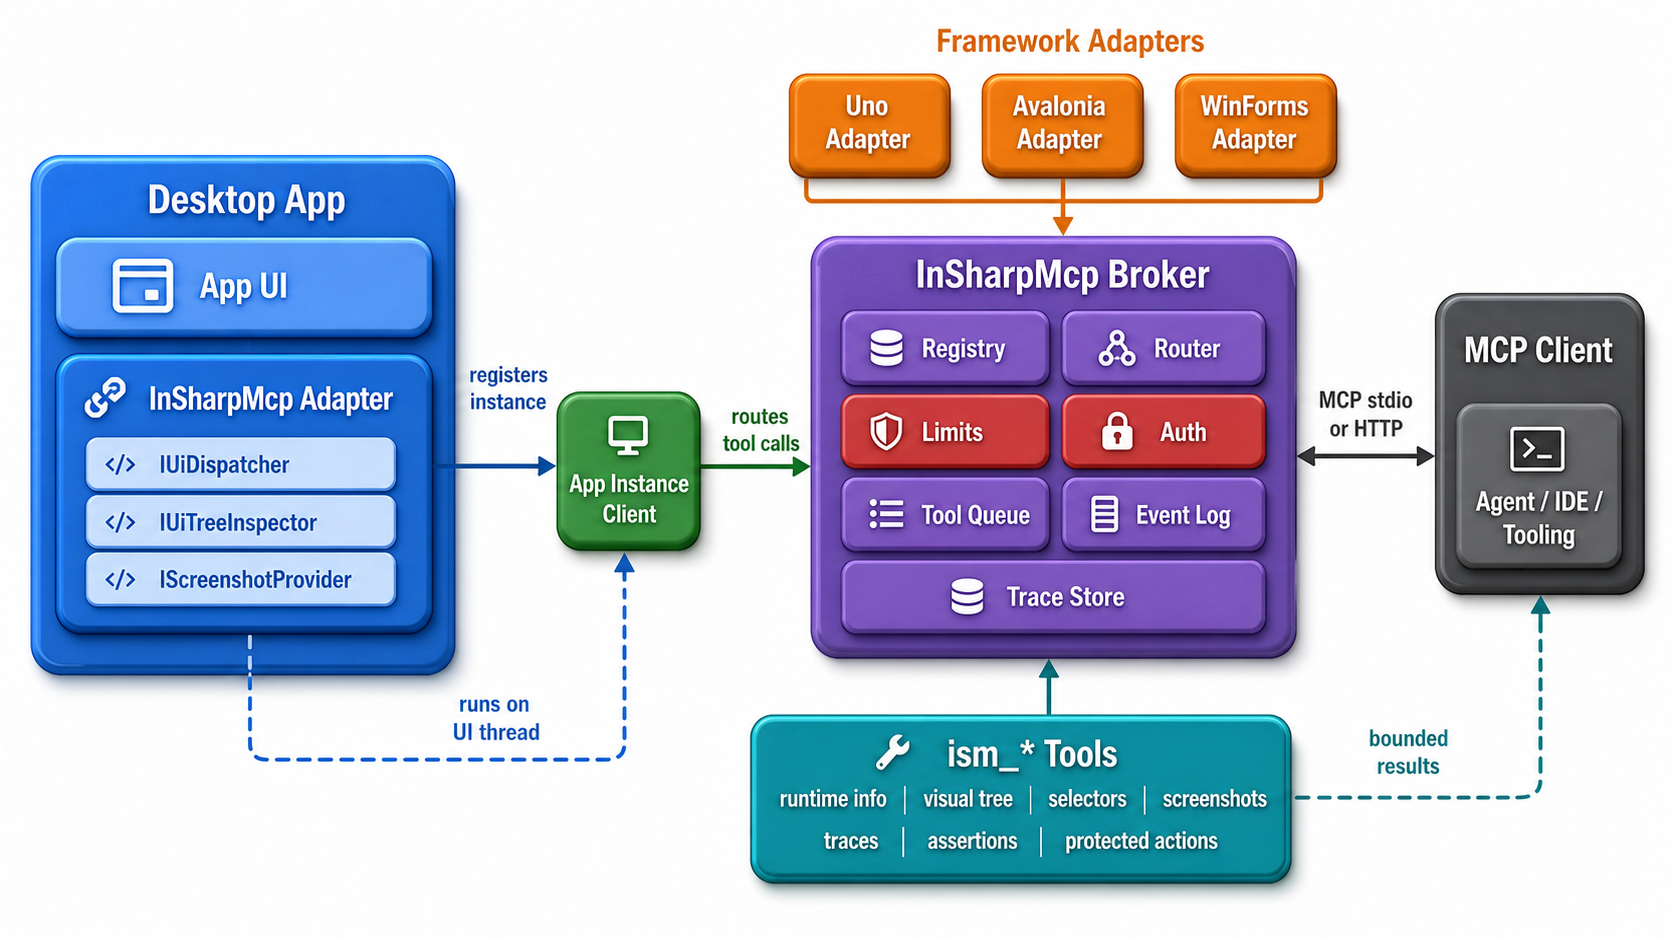
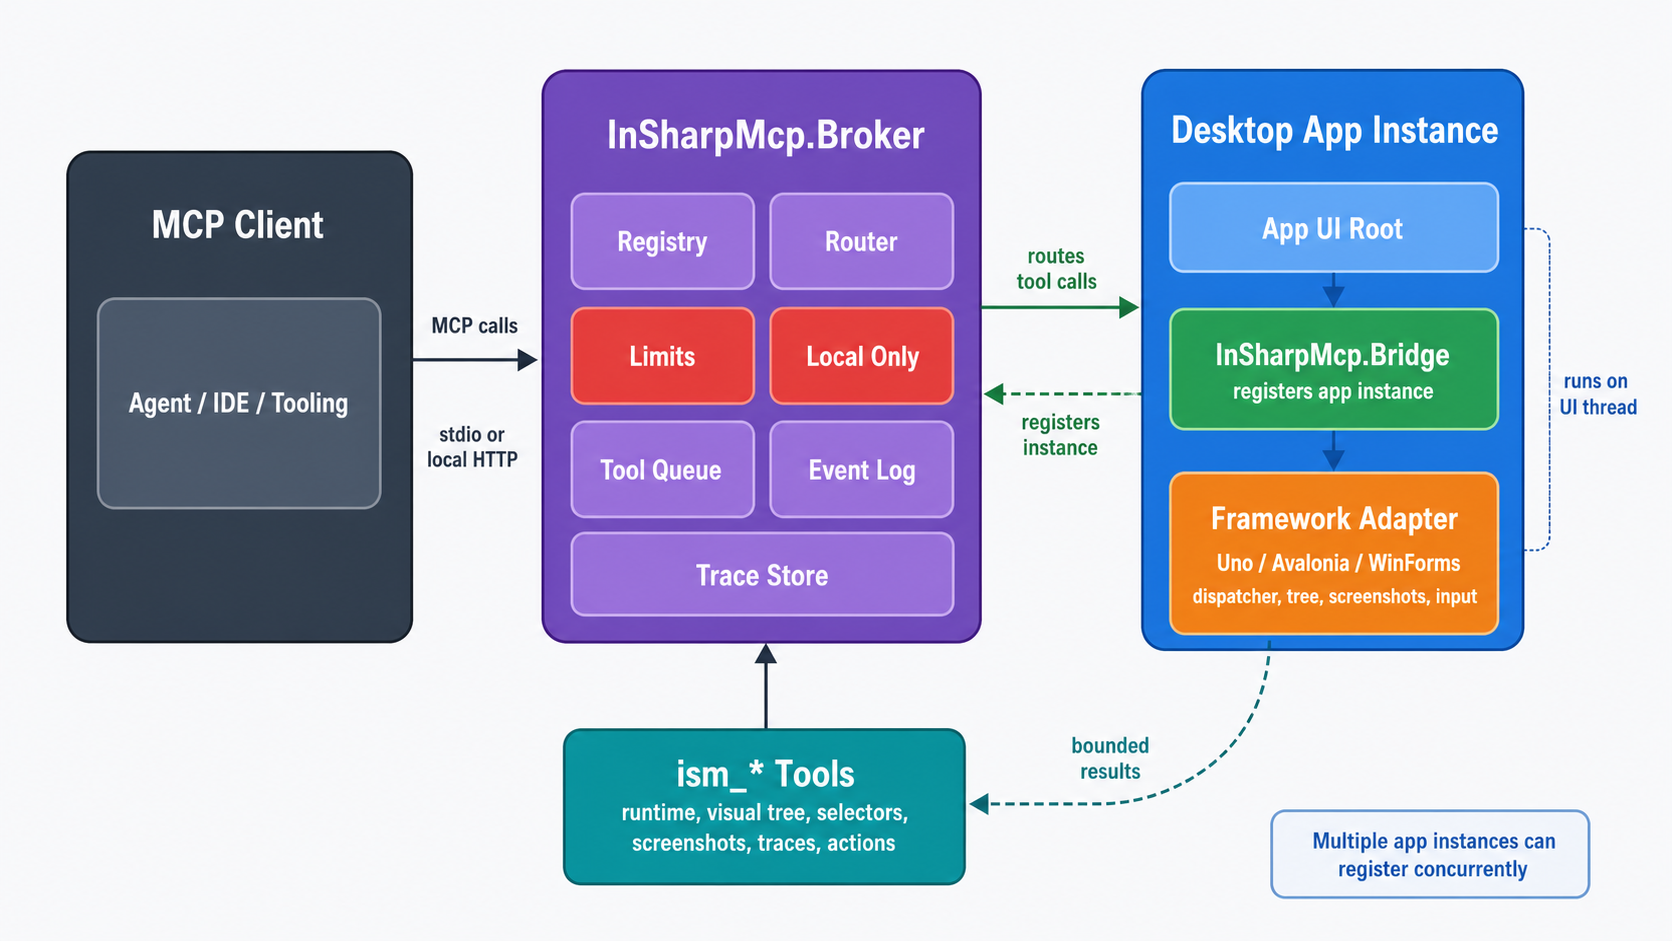
Add release packaging and NuGet usage docs

diff --git a/README.md b/README.md
@@ -11,18 +11,20 @@
 
 <table align="center">
   <tr>
-    <td align="center"><strong>Core</strong><br><code>InSharpMcp</code> broker</td>
+    <td align="center"><strong>Core</strong><br>Broker and Bridge</td>
     <td align="center"><strong>Adapters</strong><br>Uno, Avalonia, WinForms</td>
     <td align="center"><strong>Transports</strong><br>stdio and HTTP</td>
     <td align="center"><strong>Tests</strong><br>xUnit projects</td>
   </tr>
 </table>
 
-InSharpMcp is a framework-independent MCP automation layer for .NET desktop applications. It gives an MCP client a bounded, structured way to inspect a running app, query UI elements, capture screenshots, read safe metadata, collect recent events, start traces, run simple assertions, and invoke carefully gated interaction tools.
+InSharpMcp is a framework-independent MCP automation layer for .NET desktop applications. It gives an MCP client a bounded, structured way to inspect running app instances, query UI elements, capture screenshots, read safe metadata, collect recent events, start traces, run simple assertions, and invoke carefully gated interaction tools.
 
-The core package does not reference Uno, Avalonia, WinForms, WPF, WinUI, or any other UI framework. UI frameworks plug in through small adapter packages that implement shared contracts from `InSharpMcp.Contracts`.
+The base NuGet package, `InSharpMcp`, is independent of any Uno, Avalonia, WinForms, WPF, WinUI, or other UI framework. UI frameworks plug in through separate adapter packages.
 
-This repository currently contains the core broker, shared contracts, Uno, Avalonia, and WinForms adapters, adapter tests, and demo apps for the three planned environments.
+The **Broker** is the actual process that will be integrated as the Mcp server in e.g. IDE's like Cursor or VS Code etc. It is not limited to a single app or a single active call. Running apps connect through `InSharpMcp.Bridge`, register as separate app instances, and the broker routes concurrent MCP calls to the selected instance.
+
+This repository currently contains the broker executable, reusable core broker library, app-side Bridge, shared contracts, Uno, Avalonia, and WinForms adapters, adapter tests, and demo apps for the three platform environments.
 
 ## Table of Contents
 
@@ -31,11 +33,13 @@ This repository currently contains the core broker, shared contracts, Uno, Avalo
 - [Requirements](#requirements)
 - [Build and Test](#build-and-test)
 - [How InSharpMcp Works](#how-insharpmcp-works)
+- [Install MCP in IDE](#install-mcp-in-ide)
+- [Using NuGet Packages](#using-nuget-packages)
 - [Starting the Broker](#starting-the-broker)
-- [Registering an App Instance](#registering-an-app-instance)
+- [Adding MCP to Your App](#adding-mcp-to-your-app)
 - [Adapter Capabilities](#adapter-capabilities)
 - [Interaction Behavior](#interaction-behavior)
-- [MCP Client Configuration](#mcp-client-configuration)
+- [Client Limit Configuration](#client-limit-configuration)
 - [Limits and Safety](#limits-and-safety)
 - [Security Model](#security-model)
 - [Selecting a Target App](#selecting-a-target-app)
@@ -48,7 +52,7 @@ This repository currently contains the core broker, shared contracts, Uno, Avalo
 
 ## Current Status
 
-The project is source-ready but not published as NuGet packages from this repository. Use project references while developing against it.
+Release builds create one base NuGet package named `InSharpMcp`, separate framework adapter packages, and a Windows installer for the broker executable.
 
 The verified implementation includes the callable `InSharpMcp.Broker` executable, the reusable `InSharpMcp.Core` broker library, the app-side `InSharpMcp.Bridge`, `InSharpMcp.Contracts`, `InSharpMcp.Adapters.Uno`, `InSharpMcp.Adapters.Avalonia`, and `InSharpMcp.Adapters.WinForms`. The repository currently pins Uno Platform through `Uno.Sdk/6.5.33`. It pins Avalonia to `11.3.9`; the Avalonia adapter has also been compile-checked against Avalonia `12.0.3`, so the current implementation does not require separate v11 and v12 adapter source versions.
 
@@ -106,20 +110,130 @@ The demos are intentionally small and stable. They expose menus, buttons, inputs
 
 ## How InSharpMcp Works
 
-An MCP client talks to an InSharpMcp broker. The broker owns the MCP tool surface and routes each tool call to a selected app instance. The app instance is represented by an `AppInstanceDescriptor` and an active `IAppInstanceClient`.
+An MCP client talks to `InSharpMcp.Broker`. The broker owns the MCP tool surface, app registry, target selection, limit clamping, event logging, and local routing. It stays UI-framework-neutral.
 
-The core broker remains UI-framework-neutral. It knows how to select an app instance, enforce limits, authorize protected tools, serialize UI work through a bounded queue, and record tool events. The adapter knows how to run work on the UI thread and inspect the framework-specific UI tree.
+A running app does not expose MCP directly. It references `InSharpMcp.Bridge` plus exactly one framework adapter package. The Bridge registers an `AppInstanceDescriptor` with the broker over a local named pipe and carries broker requests back to the live app process.
+
+Adapters provide the framework-specific implementation: UI-thread dispatch, visual tree inspection, metadata, DataContext inspection, screenshots, accessibility data, input, default actions, and close behavior where supported.
 
 When exactly one compatible app instance is registered, tools can run without an explicit target. When more than one instance matches, InSharpMcp returns `ambiguous_target` instead of guessing. When a selected instance has no active client connection, it returns `stale_instance`.
 
-The broker process runs the MCP protocol interface. Apps do not expose MCP directly. A running app references `InSharpMcp.Bridge` plus its framework adapter, and the Bridge registers that live app instance with the broker over a local named pipe. The broker then routes MCP tool calls to that app through the Bridge.
+## Install MCP in IDE
+
+IDE MCP clients should launch `InSharpMcp.Broker` over stdio. The app under test must reference `InSharpMcp.Bridge` and be running so it can register itself with the broker.
+
+For live usage, point the IDE directly at `InSharpMcp.Broker.exe`. Use `<path>` for the folder that contains the broker executable, such as a local build output, release unpack folder, or installed tool location.
+
+For Cursor, add an entry like this to `mcp.json`:
+
+```json
+{
+  "mcpServers": {
+    "insharp-mcp": {
+      "command": "<path>/InSharpMcp.Broker.exe",
+      "args": [
+        "--transport",
+        "stdio"
+      ],
+      "env": {
+        "ISM_MAX_DEPTH": "20",
+        "ISM_MAX_NODES": "500",
+        "ISM_MAX_TEXT_CHARACTERS": "64000"
+      }
+    }
+  }
+}
+```
+
+For Codex, add the same broker command to `%USERPROFILE%\.codex\config.toml`:
+
+```toml
+[mcp_servers.InSharpMcp]
+command = "<path>/InSharpMcp.Broker.exe"
+args = [
+  "--transport",
+  "stdio",
+]
+env = { ISM_MAX_DEPTH = "20", ISM_MAX_NODES = "500", ISM_MAX_TEXT_CHARACTERS = "64000" }
+```
+
+Developers working from a source checkout can use `dotnet run` instead of a built executable:
+
+```json
+{
+  "mcpServers": {
+    "insharp-mcp": {
+      "command": "dotnet",
+      "args": [
+        "run",
+        "--project",
+        "<repo>/mcp/server/InSharpMcp.Broker/InSharpMcp.Broker.csproj",
+        "--",
+        "--transport",
+        "stdio"
+      ]
+    }
+  }
+}
+```
+
+The broker is distributed as an executable through the release installer. It is not the NuGet package that application hosts reference.
+
+## Using NuGet Packages
+
+Application hosts reference the base package plus the adapter for their UI framework. The base package contains shared contracts, core broker services, and `InSharpMcp.Bridge`; adapter packages contain only framework-specific UI access, screenshots, input, and action support.
+
+```powershell
+dotnet add package InSharpMcp
+dotnet add package InSharpMcp.Adapters.WinForms
+```
+
+Use exactly one adapter package for the app framework:
+
+```powershell
+dotnet add package InSharpMcp.Adapters.Uno
+dotnet add package InSharpMcp.Adapters.Avalonia
+dotnet add package InSharpMcp.Adapters.WinForms
+```
+
+For local source development before packages are published to a feed, build once, then pack the NuGet projects into a folder and add that folder as a NuGet source. The base package is intentionally produced by `InSharpMcp.Contracts.csproj`: that project has `PackageId=InSharpMcp`, includes its own contracts assembly, and packs the already-built `InSharpMcp.Core.dll` and `InSharpMcp.Bridge.dll` into the same `.nupkg`. `InSharpMcp.Core` and `InSharpMcp.Bridge` are not packed as separate NuGet packages.
+
+```powershell
+dotnet build mcp/server/InSharpMcp.sln -c Release
+dotnet pack mcp/server/InSharpMcp.Contracts/InSharpMcp.Contracts.csproj -c Release --no-build -o artifacts/nuget
+dotnet pack mcp/server/InSharpMcp.Adapters.WinForms/InSharpMcp.Adapters.WinForms.csproj -c Release --no-build -o artifacts/nuget
+dotnet nuget add source artifacts/nuget --name InSharpMcpLocal
+```
+
+That creates `InSharpMcp.<version>.nupkg` for Contracts + Core + Bridge, plus one adapter package such as `InSharpMcp.Adapters.WinForms.<version>.nupkg`.
+
+Then use the same `dotnet add package` commands. Replace `WinForms` with `Uno` or `Avalonia` when packing and referencing a different adapter.
 
 ## Starting the Broker
 
-MCP is disabled by default. Host code should only start or register MCP when explicit configuration enables it. The built-in environment switch is:
+Starting `InSharpMcp.Broker` is explicit: an IDE MCP client launches it from its MCP configuration, or you run it yourself from a terminal. The broker is not loaded into the app process.
+
+`ISM_ENABLED` is an app-host opt-in flag. Use it in production apps when you want the MCP Bridge to be disabled unless the developer or test runner explicitly enables it. The sample demos skip this guard so they are immediately visible to a running broker.
+
+Set the flag for the current PowerShell session before starting an app that checks it:
 
 ```powershell
 $env:ISM_ENABLED = "1"
+```
+
+Unset it again to return to the default disabled behavior for guarded hosts:
+
+```powershell
+Remove-Item Env:\ISM_ENABLED
+```
+
+In app code, treat the flag as a condition before starting `InSharpMcp.Bridge`:
+
+```csharp
+if (string.Equals(Environment.GetEnvironmentVariable("ISM_ENABLED"), "1", StringComparison.Ordinal))
+{
+    await provider.GetRequiredService<InSharpMcpBridge>().StartAsync(registration);
+}
 ```
 
 For IDE MCP clients such as Codex or Cursor, use the broker executable. The default transport is stdio, which is what command-launched MCP clients normally expect.
@@ -130,7 +244,7 @@ From a source checkout, the command form is:
 dotnet run --project mcp/server/InSharpMcp.Broker/InSharpMcp.Broker.csproj -- --transport stdio
 ```
 
-`InSharpMcp.Broker` is also configured as a .NET tool project with the command name `insharp-mcp`. After packaging and installing it as a tool, the command becomes:
+Optional: you can package `InSharpMcp.Broker` as a .NET tool with the command name `insharp-mcp`. If you choose that installation style, the broker command becomes:
 
 ```powershell
 insharp-mcp --transport stdio
@@ -144,11 +258,13 @@ dotnet run --project mcp/server/InSharpMcp.Broker/InSharpMcp.Broker.csproj -- --
 
 HTTP always binds to `127.0.0.1` and maps the MCP endpoint at `/mcp` by default. Remote HTTP clients are rejected.
 
-## Registering an App Instance
+## Adding MCP to Your App
 
-App registration is normal dependency injection. Add the adapter for your framework, add `InSharpMcp.Bridge`, and start the bridge with an `AppBridgeRegistration`. The demos do this by default so they are visible to an already-running broker without setting `ISM_ENABLED`.
+App registration is normal dependency injection. Add the adapter for your framework, add `InSharpMcp.Bridge`, and start the bridge with an `AppBridgeRegistration`. Production apps should usually guard `StartAsync` behind an explicit opt-in such as `ISM_ENABLED`. The demo projects under `demos/` are the best starting references because each one wires the MCP Bridge into a real host app.
 
-The exact window/control type depends on the adapter. A WinForms host can wire itself like this:
+The exact root type depends on the adapter. Today each adapter attaches one app instance to one UI root: WinForms uses the main `Form`, while Avalonia and Uno use the main `Window`. That root is what the adapter inspects, screenshots, and uses for coordinate translation. For a typical single-window app, the main form/window is the app instance. Multi-window apps can register the window they want MCP clients to operate against, or expose separate app instance registrations if they need separate controllable surfaces.
+
+A WinForms host can wire its main form like this:
 
 ```csharp
 using InSharpMcp;
@@ -158,7 +274,7 @@ using Microsoft.Extensions.DependencyInjection;
 
 var services = new ServiceCollection();
 services.AddInSharpMcpWinFormsAdapter(
-    form,
+    form, // Main Form used as this app instance's MCP root.
     appName: "Sample WinForms App",
     appVersion: "1.0.0",
     platformTarget: "WinForms");
@@ -185,7 +301,9 @@ await provider.GetRequiredService<InSharpMcpBridge>().StartAsync(registration);
 
 Dispose the service provider when the host closes. That stops the Bridge and unregisters the app instance from the broker when possible.
 
-Avalonia hosts use `AddInSharpMcpAvaloniaAdapter(window, ...)`. Uno hosts use `AddInSharpMcpUnoAdapter(window, ...)`. WinForms hosts use `AddInSharpMcpWinFormsAdapter(form, ...)`.
+Avalonia hosts use `AddInSharpMcpAvaloniaAdapter(window, ...)`.  
+Uno hosts use `AddInSharpMcpUnoAdapter(window, ...)`.  
+WinForms hosts use `AddInSharpMcpWinFormsAdapter(form, ...)`.
 
 ## Adapter Capabilities
 
@@ -211,48 +329,7 @@ Key and text input use native Windows input APIs instead of fabricated framework
 
 Default actions use public control contracts only. Uno invokes `ButtonBase.Command`, Avalonia invokes `ICommandSource.Command`, and WinForms invokes `IButtonControl.PerformClick()`. Elements without those public action surfaces return structured `unsupported`.
 
-## MCP Client Configuration
-
-Command-launched MCP clients should point at the broker executable. From a source checkout, a Codex/Cursor-style configuration looks like this:
-
-```json
-{
-  "mcpServers": {
-    "insharp-mcp": {
-      "command": "dotnet",
-      "args": [
-        "run",
-        "--project",
-        "mcp/server/InSharpMcp.Broker/InSharpMcp.Broker.csproj",
-        "--",
-        "--transport",
-        "stdio"
-      ],
-      "env": {
-        "ISM_MAX_DEPTH": "20",
-        "ISM_MAX_NODES": "500",
-        "ISM_MAX_TEXT_CHARACTERS": "64000"
-      }
-    }
-  }
-}
-```
-
-After the broker is packaged and installed as the `insharp-mcp` .NET tool, the same config can use the tool command directly:
-
-```json
-{
-  "mcpServers": {
-    "insharp-mcp": {
-      "command": "insharp-mcp",
-      "args": [
-        "--transport",
-        "stdio"
-      ]
-    }
-  }
-}
-```
+## Client Limit Configuration
 
 An HTTP MCP client can connect to the default local endpoint with a configuration shaped like this:
 
@@ -303,7 +380,7 @@ ism_element_peer_default_action
 ism_close
 ```
 
-The broker does not use a shared token. Stdio is intended for IDE-launched local MCP clients, and HTTP is local-only: the broker binds to `127.0.0.1` and rejects non-loopback clients.
+Stdio is intended for IDE-launched local MCP clients, and HTTP is local-only: the broker binds to `127.0.0.1` and rejects non-loopback clients.
 
 ## Selecting a Target App
 
@@ -395,8 +472,6 @@ The existing tests cover routing, target ambiguity, stale instances, local broke
 
 ## Known Limitations
 
-InSharpMcp currently provides source projects, NuGet packages are planned to come shortly.
-
 The included Bridge provides a local named-pipe app-to-broker transport for desktop apps on the same machine. Production hosts can use it directly or replace it with a custom transport if they need a different discovery, authentication, or deployment model.
 
 Uno Desktop/Skia screenshot and pointer-click paths are intentionally unsupported until validated backend-specific implementations exist. Keyboard/text input uses native Windows input where available. Default action invocation is limited to public command/button patterns: Uno `ButtonBase.Command`, Avalonia `ICommandSource.Command`, and WinForms `IButtonControl.PerformClick()`.
@@ -405,4 +480,4 @@ The file `plans/ADAPTER_VALIDATION.md` records the current adapter validation st
 
 ## License
 
-See `LICENSE`.
+MIT licensed. See `LICENSE`.
